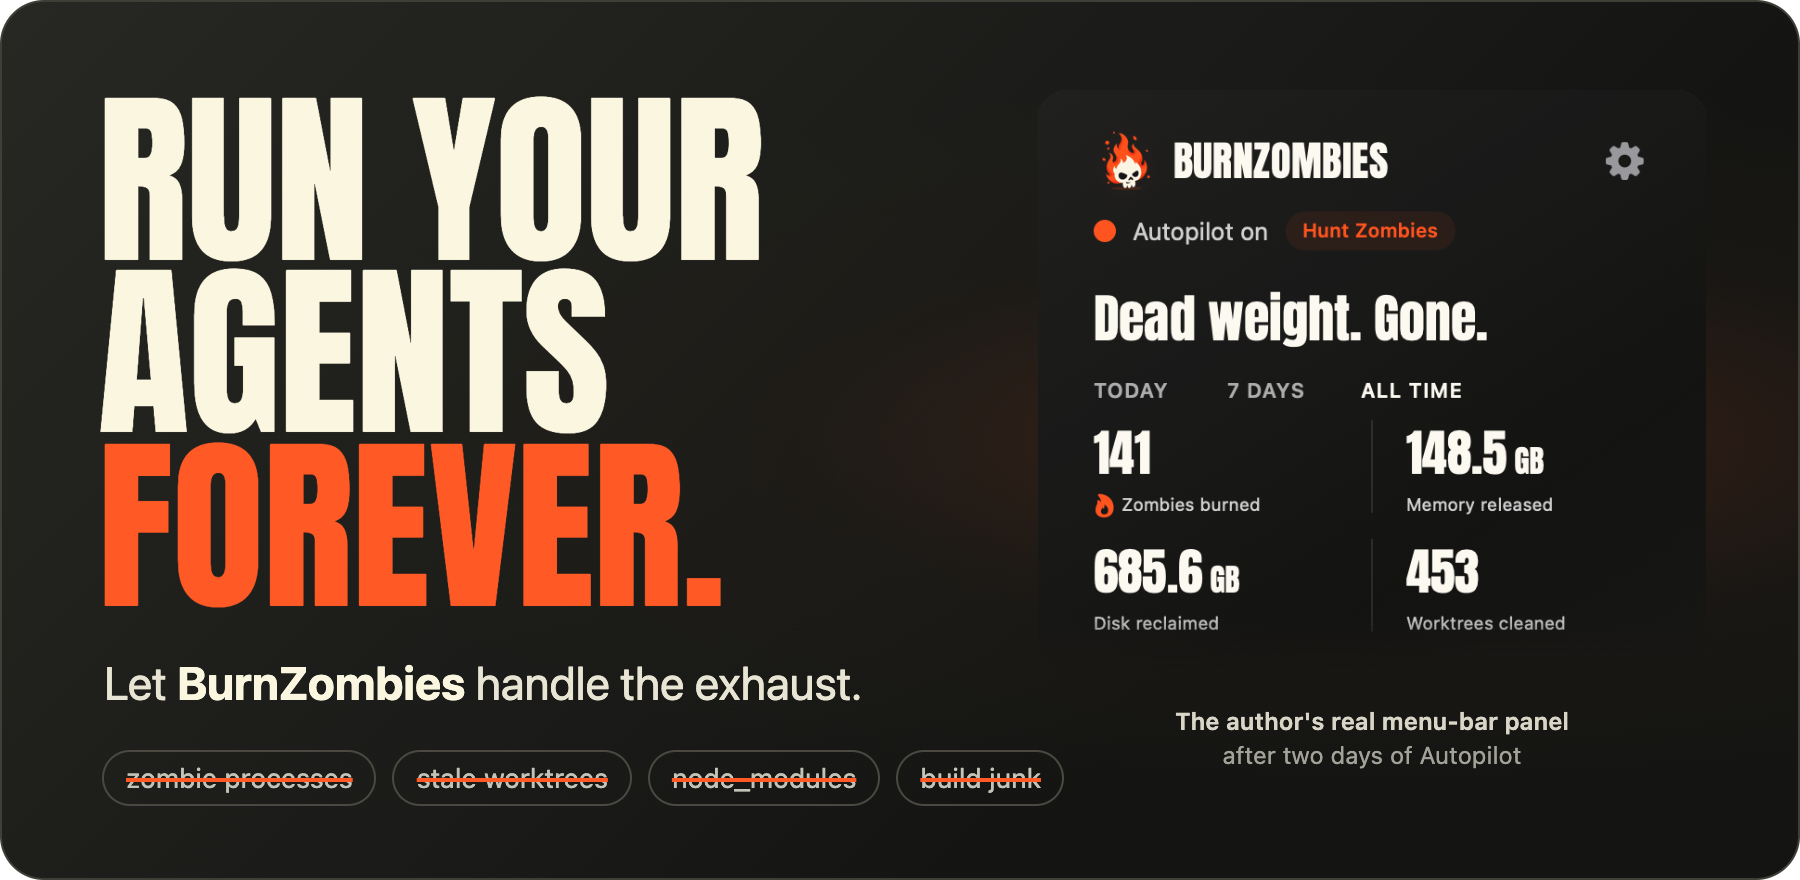
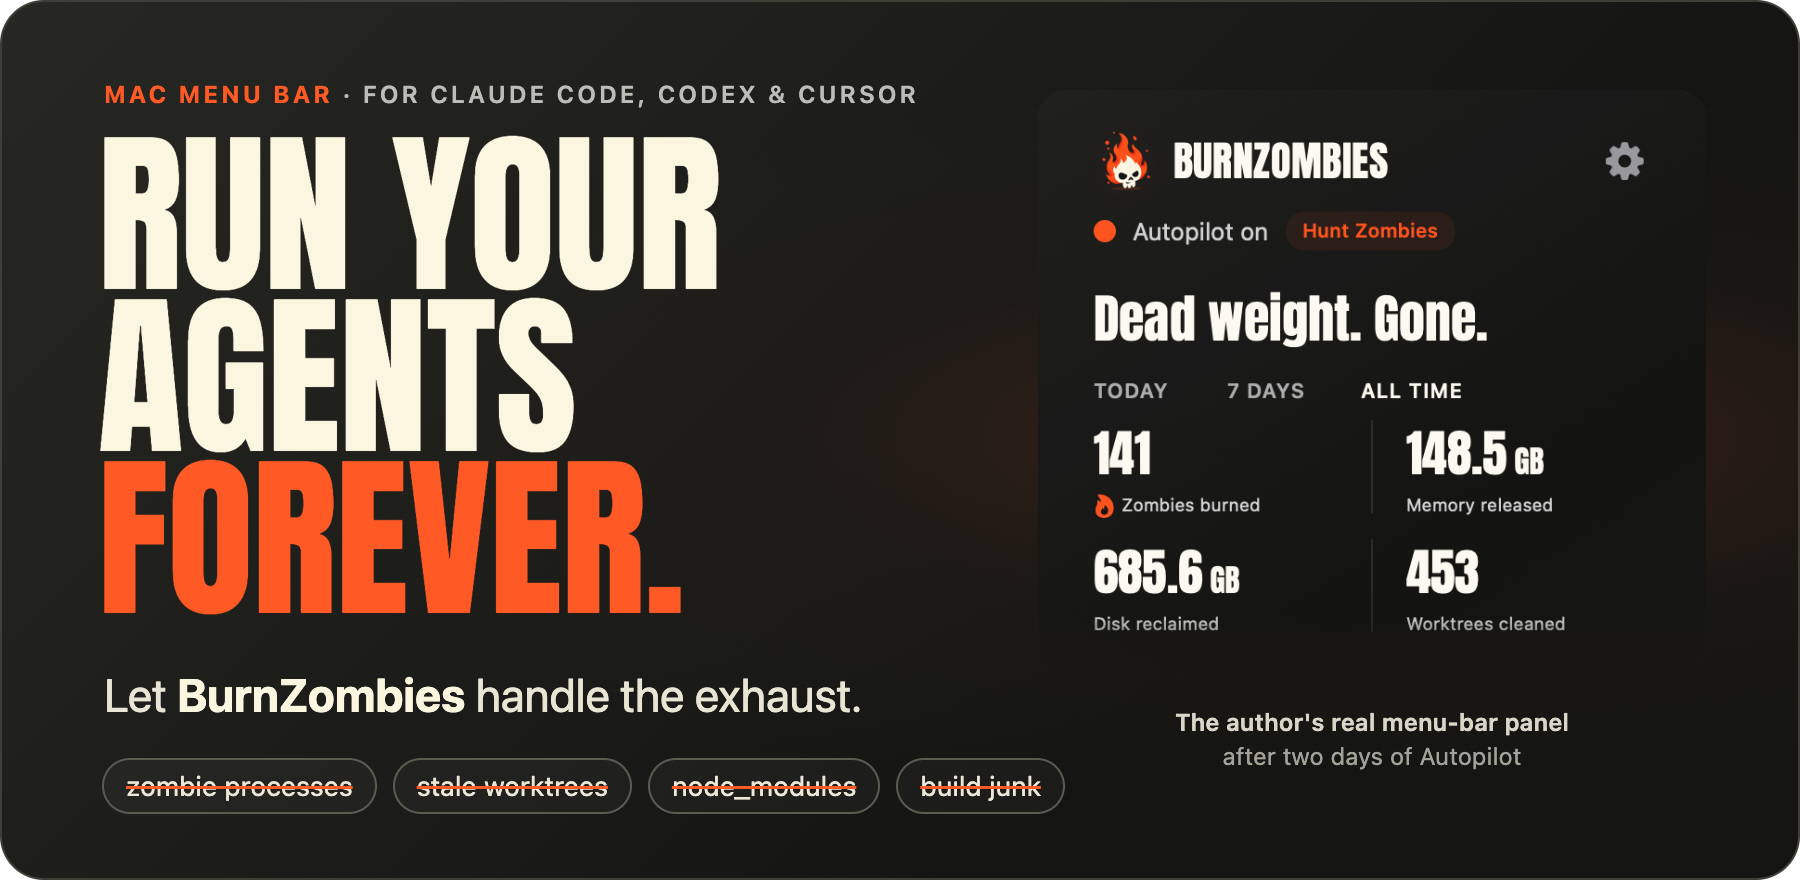
README: draft 2 from the first newcomer review

diff --git a/docs/media/readme-hero.html b/docs/media/readme-hero.html
@@ -11,12 +11,14 @@ main{width:900px;height:440px;position:relative;overflow:hidden;border-radius:22
   border:1px solid #3f3e37;color:#faf6df;font-family:-apple-system,BlinkMacSystemFont,Arial,sans-serif}
 header{position:absolute;left:50px;top:38px;display:flex;align-items:center;gap:10px;font:21px Anton;letter-spacing:.5px}
 header img{width:28px;height:34px;object-fit:contain}
-h1{position:absolute;left:48px;top:46px;margin:0;font:94px/.92 Anton;letter-spacing:-.3px}
+.eyebrow{position:absolute;left:51px;top:39px;font-size:12px;font-weight:600;letter-spacing:1.5px;color:#bcbdb4}
+.eyebrow b{color:#ff5a26;font-weight:700}
+h1{position:absolute;left:48px;top:66px;margin:0;font:88px/.92 Anton;letter-spacing:-.3px}
 h1 span{color:#ff5a26}
-p{position:absolute;left:51px;top:326px;margin:0;font-size:23px;line-height:1.3;color:#e9e5d4}
+p{position:absolute;left:51px;top:332px;margin:0;font-size:23px;line-height:1.3;color:#e9e5d4}
 p b{color:#faf6df}
-.exhaust{position:absolute;left:50px;top:374px;display:flex;gap:8px}
-.exhaust span{font-size:13.5px;color:#c4c3b8;border:1px solid #4a4840;border-radius:999px;padding:5px 11px;
+.exhaust{position:absolute;left:50px;top:378px;display:flex;gap:8px}
+.exhaust span{font-size:13.5px;color:#ece8d8;border:1px solid #5d5a50;background:#ffffff08;border-radius:999px;padding:5px 11px;
   text-decoration:line-through;text-decoration-color:#ff5a26;text-decoration-thickness:1.5px}
 .panel{position:absolute;right:46px;top:44px;width:334px;height:292px;border-radius:15px;overflow:hidden;
   box-shadow:0 26px 60px #000b,0 0 0 1px #504e45;-webkit-mask-image:linear-gradient(#000 90%,transparent)}
@@ -25,6 +27,7 @@ p b{color:#faf6df}
 .caption b{color:#d9d6c8;font-weight:600}
 </style>
 <main>
+<div class="eyebrow"><b>MAC MENU BAR</b> · FOR CLAUDE CODE, CODEX &amp; CURSOR</div>
 <h1>RUN YOUR<br>AGENTS<br><span>FOREVER.</span></h1>
 <p>Let <b>BurnZombies</b> handle the exhaust.</p>
 <div class="exhaust"><span>zombie processes</span><span>stale worktrees</span><span>node_modules</span><span>build junk</span></div>

diff --git a/README.md b/README.md
@@ -1,90 +1,103 @@
 <p align="center">
-  <img src="docs/media/readme-hero.png" width="900" alt="Run your agents forever. Let BurnZombies handle the exhaust: zombie processes, stale worktrees, node_modules and build junk. Beside it, the author's real menu-bar panel after two days of Autopilot: 141 zombies burned, 148.5 GB of memory released, 685.6 GB of disk reclaimed and 453 worktrees cleaned.">
+  <img src="docs/media/readme-hero.png" width="900" alt="A Mac menu-bar app for Claude Code, Codex and Cursor. Run your agents forever. Let BurnZombies handle the exhaust: zombie processes, stale worktrees, node_modules and build junk. Beside it, the author's real menu-bar panel after two days of Autopilot: 141 zombies burned, 148.5 GB of memory released, 685.6 GB of disk reclaimed and 453 worktrees cleaned.">
 </p>
 
 <p align="center">
-  <b>BurnZombies cleans up after your AI coding agents, on its own.</b><br>
-  Every 15 minutes it burns the zombie processes, stale worktrees and rebuildable junk they leave on your Mac. You never clean your disk or hunt down a stuck process by hand again.
+  <b>BurnZombies (BZ) cleans up after your AI coding agents, on its own.</b><br>
+  It stops the processes they orphan and deletes the worktrees and rebuildable junk they leave behind, backing up every worktree first. In its first two days on the author's Mac, it freed <b>685.6 GB</b> and cleared <b>453</b> stale worktrees.
 </p>
+
+<p align="center">On your Mac, paste this into Terminal:</p>
 
 ```sh
 curl -fsSL https://raw.githubusercontent.com/swordfish444/BurnZombies/main/install.sh | bash
 ```
 
-<p align="center"><sub>macOS 14+ · Apple Silicon or Intel · no account, API key or sudo · free and open source (MIT)</sub></p>
+<p align="center"><sub>macOS 14+ · no account, API key or sudo · free and open source (MIT) · <a href="install.sh">read the script first</a></sub></p>
 
 ## How it works
 
 1. **Install it.** One command. A flaming skull joins your menu bar, and within a minute it shows what it found.
 2. **Run your agents.** Claude Code, Codex, Cursor: as many sessions, worktrees, dev servers and builds as you like. Nothing about how you work changes.
-3. **BurnZombies burns the exhaust.** Every 15 minutes it stops zombie processes, retires worktrees you're done with and deletes rebuildable junk. Each worktree is backed up first. When it isn't sure, it asks one yes/no question and turns your answer into a rule.
+3. **BZ burns the exhaust.** Every 15 minutes it stops orphaned processes and deletes stale worktrees and rebuildable junk, backing up each worktree first. When it isn't sure, it asks you one yes/no question and remembers your answer.
 
 <p align="center">
   <img src="docs/media/readme-first-minute.jpg" width="250" alt="The menu-bar panel a minute after install, with example data: Autopilot on, BZ has 3 quick questions worth 32.8 GB, and Found 38.5 GB of leftovers.">
   &nbsp;
-  <img src="docs/media/readme-question.jpg" width="437" alt="A Teach BZ question card, with example data: Burn 2 old project copies? Frees 8.9 GB. Saved on GitHub. Each one is backed up first, so you can undo it. Yes, burn them or No, keep them.">
+  <img src="docs/media/readme-question.jpg" width="437" alt="A Teach BZ question card, with example data: Burn 5 tool caches? Frees 20.3 GB. Unused for a month. Inside your projects. Your tools rebuild them when needed. Yes, burn them or No, keep them.">
 </p>
 <p align="center"><sub><b>Minute one:</b> what BZ found &nbsp;·&nbsp; <b>When it isn't sure:</b> one tap, and it remembers &nbsp;·&nbsp; example data</sub></p>
 
 ## What it burns
 
-| The exhaust | Your safety net |
+| The exhaust | The safety net |
 | --- | --- |
-| 🧟 **Zombie processes**: Node workers, headless browsers and build watchers whose app or chat is gone | A graceful stop. Never anything a live chat is using. |
-| 📁 **Stale worktrees**: project copies you stopped using | Saved to a Git restore point first. One click restores it for 30 days. |
+| 🧟 **Zombie processes**: orphaned Node workers, headless browsers and build watchers still running after their app or chat is gone | A polite `SIGTERM`, sent only after an exact identity check. |
+| 📁 **Stale worktrees** nothing is using | A Git ref inside the repo first saves every commit, uncommitted change and untracked file, and BZ verifies it. Restore from **Findings** for 30 days. |
 | 🗑 **Rebuildable junk**: `node_modules`, build output, DerivedData | Your tools rebuild it when needed. |
 
-It never touches macOS, your apps, your main project folders or anything a running chat is working in. [How cleanup stays safe →](docs/SAFETY.md)
+## Safe by default
+
+- **Hands off what's yours.** BZ never touches macOS, your apps, your AI tools, your main project folders, or anything a running Claude Code or Codex chat is working in. It knows which chats are running from the session records those tools keep on your Mac.
+- **On its own, only the obvious.** Starter rules burn programs whose app or chat is gone after 6+ idle hours with no open port, merged worktrees with no local changes untouched for a month, and junk inside worktrees untouched for two weeks. Switch any of them off in **Settings → Autopilot**.
+- **The AI is boxed in.** With Claude Code or Codex signed in, it may burn an item on its own only when it's at least 85% sure and the item is low-risk: an orphaned program with no open port, a known junk folder, or a worktree nothing uses. Worktrees that Claude Code, Codex or Conductor made are never burned without your yes.
+- **You have the last word.** **No** and **Keep forever** always win. Each **Yes** becomes a rule you can see and forget in **Settings → Autopilot → What BZ has learned**. **Findings** shows every item, why BZ thinks so, and what burning it does.
+- **Checked, not promised.** At most 50 programs, 20 worktrees and 20 junk folders go per look, and locked or mid-merge worktrees are refused. The [proof suite](Proof) tests these rules on every code change. [How cleanup stays safe →](docs/SAFETY.md)
 
 ## What happens next
 
-- **Minute one.** BZ takes its first look and shows what it found. For the first half hour it looks again every minute, then every 15 minutes.
-- **The obvious stuff burns on its own**, under starter rules you can switch off in **Settings → Autopilot**: programs whose app or chat is gone and that sat idle for 6+ hours with no open port, merged worktrees untouched for a month, and junk inside copies untouched for two weeks.
-- **It asks about the rest**, one tap each, and only when an answer frees at least 1 GB. **Yes** burns all the matches, now and later. **No** keeps them.
-- **AI sweeps are optional.** With Claude Code or Codex signed in, BZ asks it to judge what the rules don't cover, through your existing login. The first sweep starts about 10 minutes after install.
-
-## Watch it hunt
-
-<p align="center">
-  <img src="docs/media/readme-hunt.png" width="900" alt="The Hunt Zombies scene: a pixel-art night patrol turns a flamethrower on a zombie under the words Zombie eradicated.">
-</p>
-
-Click **Hunt Zombies** in the menu to start a sweep right now and watch the night shift work. Automatic sweeps stay out of sight.
+- **Minute one:** BZ shows what it found and asks its first questions.
+- **First half hour:** it looks every minute. With Claude Code or Codex signed in, the first AI sweep starts around minute 10.
+- **From then on:** it looks every 15 minutes, quietly. Open the panel any time to see what you got back.
 
 ## FAQ
 
 <details>
-<summary><b>Do I need Claude Code or Codex?</b></summary>
+<summary><b>Does it use AI? What does that cost?</b></summary>
 
-No. Without either, BZ cleans with its starter rules and your answers. With one installed and signed in, it also judges new things through your existing login. Turn AI on later with `burnzombies setup --with-ai`, or install with it off: `curl … | bash -s -- --observe-only`. [More →](docs/INSTALL.md#with-or-without-claude-code-or-codex)
+Only if Claude Code or Codex is installed and signed in; then AI sweeps are on by default. A sweep runs your own Claude Code or Codex with your login, only when there's something new to judge: at most every 30 minutes, plus a recheck every 4 hours. On API pricing a sweep costs roughly $0.30–$1.20; on a Claude or ChatGPT subscription it uses plan usage. **Settings → Usage & estimated cost** shows what sweeps used. To keep AI off, install with `curl … | bash -s -- --observe-only`, or run `burnzombies setup --observe-only` later. [Model and cost →](docs/INSTALL.md#model-and-cost)
 
 </details>
 
 <details>
-<summary><b>What does it cost?</b></summary>
+<summary><b>What does the AI see?</b></summary>
 
-BurnZombies is free. AI sweeps run on your own Claude Code or Codex, only when there is something new to judge, and at most every 30 minutes. On API pricing a sweep costs roughly $0.30–$1.20; on a Claude or ChatGPT subscription it uses plan usage instead. **Settings → Usage & estimated cost** shows what sweeps cost. [Model and cost →](docs/INSTALL.md#model-and-cost)
+The plain facts BZ gathered about each item, like where it is, its size and what started it, plus any project files it reads in the folders it's judging, such as `package.json`, READMEs and configs. It's told never to read secrets such as `.env` files, keys or credentials. All of it goes through your own Claude Code or Codex login, like any other request you make with it.
+
+</details>
+
+<details>
+<summary><b>Can I see what it would burn before it burns anything?</b></summary>
+
+**Findings** lists everything BZ found, why, and what burning it would do. There's no look-only mode yet: the starter rules start in the first minute. Everything they burn is backed up (worktrees), rebuildable (junk) or an orphaned program that sat idle for 6 hours. `--observe-only` turns off only the AI.
 
 </details>
 
 <details>
 <summary><b>Can I undo a burn?</b></summary>
 
-Worktrees, yes: restore one from **Findings** for 30 days. Junk folders get rebuilt by your tools. Programs get a graceful stop, which can't be undone, so BZ only stops ones whose app or chat is gone.
+Worktrees, yes: **Restore** in **Findings** for 30 days. The restore point is a Git ref in the repo (`refs/burnzombies/retired/…`) that holds every commit and local change. Ignored files over 5 MB and anything inside rebuildable folders aren't kept. Junk folders get rebuilt by your tools. Programs get a graceful stop, which can't be undone.
+
+</details>
+
+<details>
+<summary><b>I run long background jobs on purpose. Are they safe?</b></summary>
+
+On its own, BZ only stops a program whose app or chat is gone and that has no open port: the starter rule also waits for 6+ idle hours, and the AI must be at least 85% sure. For anything you want kept no matter what, click **Keep forever** on it in **Findings**; BZ and the AI then leave it alone.
 
 </details>
 
 <details>
 <summary><b>Does it need Full Disk Access?</b></summary>
 
-No. Without it, BZ skips the places macOS protects (Desktop, Documents, Downloads, iCloud Drive and other apps' data) and tells you what it skipped. To cover them too, click **Allow Full Disk Access** in the menu. [Access setup →](docs/INSTALL.md#optional-full-disk-access)
+No. Without it, BZ skips the places macOS protects (Desktop, Documents, Downloads, iCloud Drive and other apps' data) and tells you what it skipped. With it, the same rules cover those folders too. To grant it, click **Allow Full Disk Access** in the menu. [Access setup →](docs/INSTALL.md#optional-full-disk-access)
 
 </details>
 
 <details>
 <summary><b>What does the install script do?</b></summary>
 
-It downloads the latest release, checks it against the release's SHA-256 checksum, checks the archive's paths and the app's code signature, and puts BurnZombies.app in `~/Applications`. No sudo. Releases are signed with BurnZombies' own certificate but aren't notarized yet. [Read install.sh](install.sh) · [Installer options →](docs/INSTALL.md#installer-options)
+It downloads the release it pins, checks it against that release's SHA-256 checksums, checks the archive's paths and the app's code signature, and puts BurnZombies.app in `~/Applications`. No sudo. Releases are signed with BurnZombies' own certificate but aren't notarized by Apple yet. [Read install.sh](install.sh) · [Installer options →](docs/INSTALL.md#installer-options)
 
 </details>
 
@@ -100,14 +113,12 @@ Yes. Give Claude Code or Codex this prompt:
 <details>
 <summary><b>How do I uninstall?</b></summary>
 
-Stop BZ, then delete the app and its data folder. [Three steps →](docs/INSTALL.md#uninstall)
+Stop BZ, then delete the app and its data folder. Restore points stay in your repos until you delete them. [Three steps →](docs/INSTALL.md#uninstall)
 
 </details>
 
 ## Learn more
 
-[User guide](docs/USER_GUIDE.md) · [How Autopilot decides](docs/AUTOPILOT.md) · [Safety](docs/SAFETY.md) · [Install](docs/INSTALL.md) · [MCP](docs/MCP.md) · [Roadmap](docs/ROADMAP.md) · [Contributing](CONTRIBUTING.md) · [Security](SECURITY.md)
-
-If BurnZombies frees up room for your next run, **give it a star**. [Tell us what your agents leave behind →](https://github.com/swordfish444/BurnZombies/issues/new?template=feedback.yml)
+[User guide](docs/USER_GUIDE.md) · [How Autopilot decides](docs/AUTOPILOT.md) · [How cleanup stays safe](docs/SAFETY.md) · [Install options](docs/INSTALL.md) · [MCP](docs/MCP.md) · [Tell us what your agents leave behind](https://github.com/swordfish444/BurnZombies/issues/new?template=feedback.yml)
 
 <p align="center"><b>You build. We burn.</b></p>

diff --git a/docs/BRAND.md b/docs/BRAND.md
@@ -16,19 +16,28 @@ Anton is bundled from the [Google Fonts Anton directory](https://github.com/goog
 
 ## Public previews
 
-The README uses `docs/media/menu-bar-empty.png`, `docs/media/menu-bar.png` and `docs/media/impact.png`, rendered directly from the current native SwiftUI views. The compact images show first-use and populated states at the same scale. These are interface examples, not performance benchmarks or trial results. No desktop content, private process details or live cleanup history is included.
+The README opens with `docs/media/readme-hero.png`, rendered from `docs/media/readme-hero.html`. Its panel, `docs/media/panel-real.png`, is the author's own compact panel on the All time tab after two days of Autopilot (2026-11-02 to 11-04), rendered offscreen from a copy of that Mac's catalog and Autopilot tally. It shows totals only: no names, paths or process details. The other README images use the app's isolated example data, and the README says so.
 
-Refresh them without opening a window or starting an observer:
+Refresh the example images without opening a window or starting an observer:
 
 ```sh
 swift build --product BurnZombiesApp
 .build/debug/BurnZombiesApp --mini-proof /tmp/bz-readme-mini
-.build/debug/BurnZombiesApp --impact-proof /tmp/bz-readme-impact
-cp /tmp/bz-readme-mini/empty.png docs/media/menu-bar-empty.png
-cp /tmp/bz-readme-mini/unmeasured.png docs/media/menu-bar.png
-cp /tmp/bz-readme-impact/reclaimed.png docs/media/impact.png
+.build/debug/BurnZombiesApp --autopilot-proof /tmp/bz-readme-autopilot
+.build/debug/BurnZombiesApp --hunt-scene-proof /tmp/bz-readme-hunt
+sips -s format jpeg -s formatOptions 90 /tmp/bz-readme-mini/newcomer.png --out docs/media/readme-first-minute.jpg
+sips -s format jpeg -s formatOptions 90 /tmp/bz-readme-autopilot/teach.png --out docs/media/readme-question.jpg
+cp /tmp/bz-readme-hunt/burning.png docs/media/readme-hunt.png
 ```
 
-The render checks exercise the shipped views in memory with isolated example data and use OCR to check the compact labels and period counters. They prohibit app activation and do not create an observer, signal processes, or save production state.
+Then render the hero at 2x, transparent outside its rounded card:
 
-The older JPGs and GIFs remain historical media, not the current README gallery. `preview.gif` is a timed sequence of earlier Impact and Burn Log captures; `burn.gif` shows the demo-only success animation. `live-cleanup.gif` and `live-cleanup.mp4` are earlier controlled cleanup walkthroughs, separate from the real-workload trial.
+```sh
+"/Applications/Google Chrome.app/Contents/MacOS/Google Chrome" --headless --hide-scrollbars \
+  --window-size=900,440 --force-device-scale-factor=2 --default-background-color=00000000 \
+  --virtual-time-budget=3000 --screenshot=docs/media/readme-hero.png "file://$PWD/docs/media/readme-hero.html"
+```
+
+The render checks exercise the shipped views in memory and use OCR to check what they show. They prohibit app activation and do not create an observer, signal processes, or save production state.
+
+`menu-bar-empty.png`, `menu-bar.png`, `impact.png` and `hunt-zombies.png` were the README gallery until November 2026; `--mini-proof` (`empty.png`, `unmeasured.png`) and `--impact-proof` (`reclaimed.png`) still render their current versions. The older JPGs and GIFs remain historical media. `preview.gif` is a timed sequence of earlier Impact and Burn Log captures; `burn.gif` shows the demo-only success animation. `live-cleanup.gif` and `live-cleanup.mp4` are earlier controlled cleanup walkthroughs, separate from the real-workload trial.
